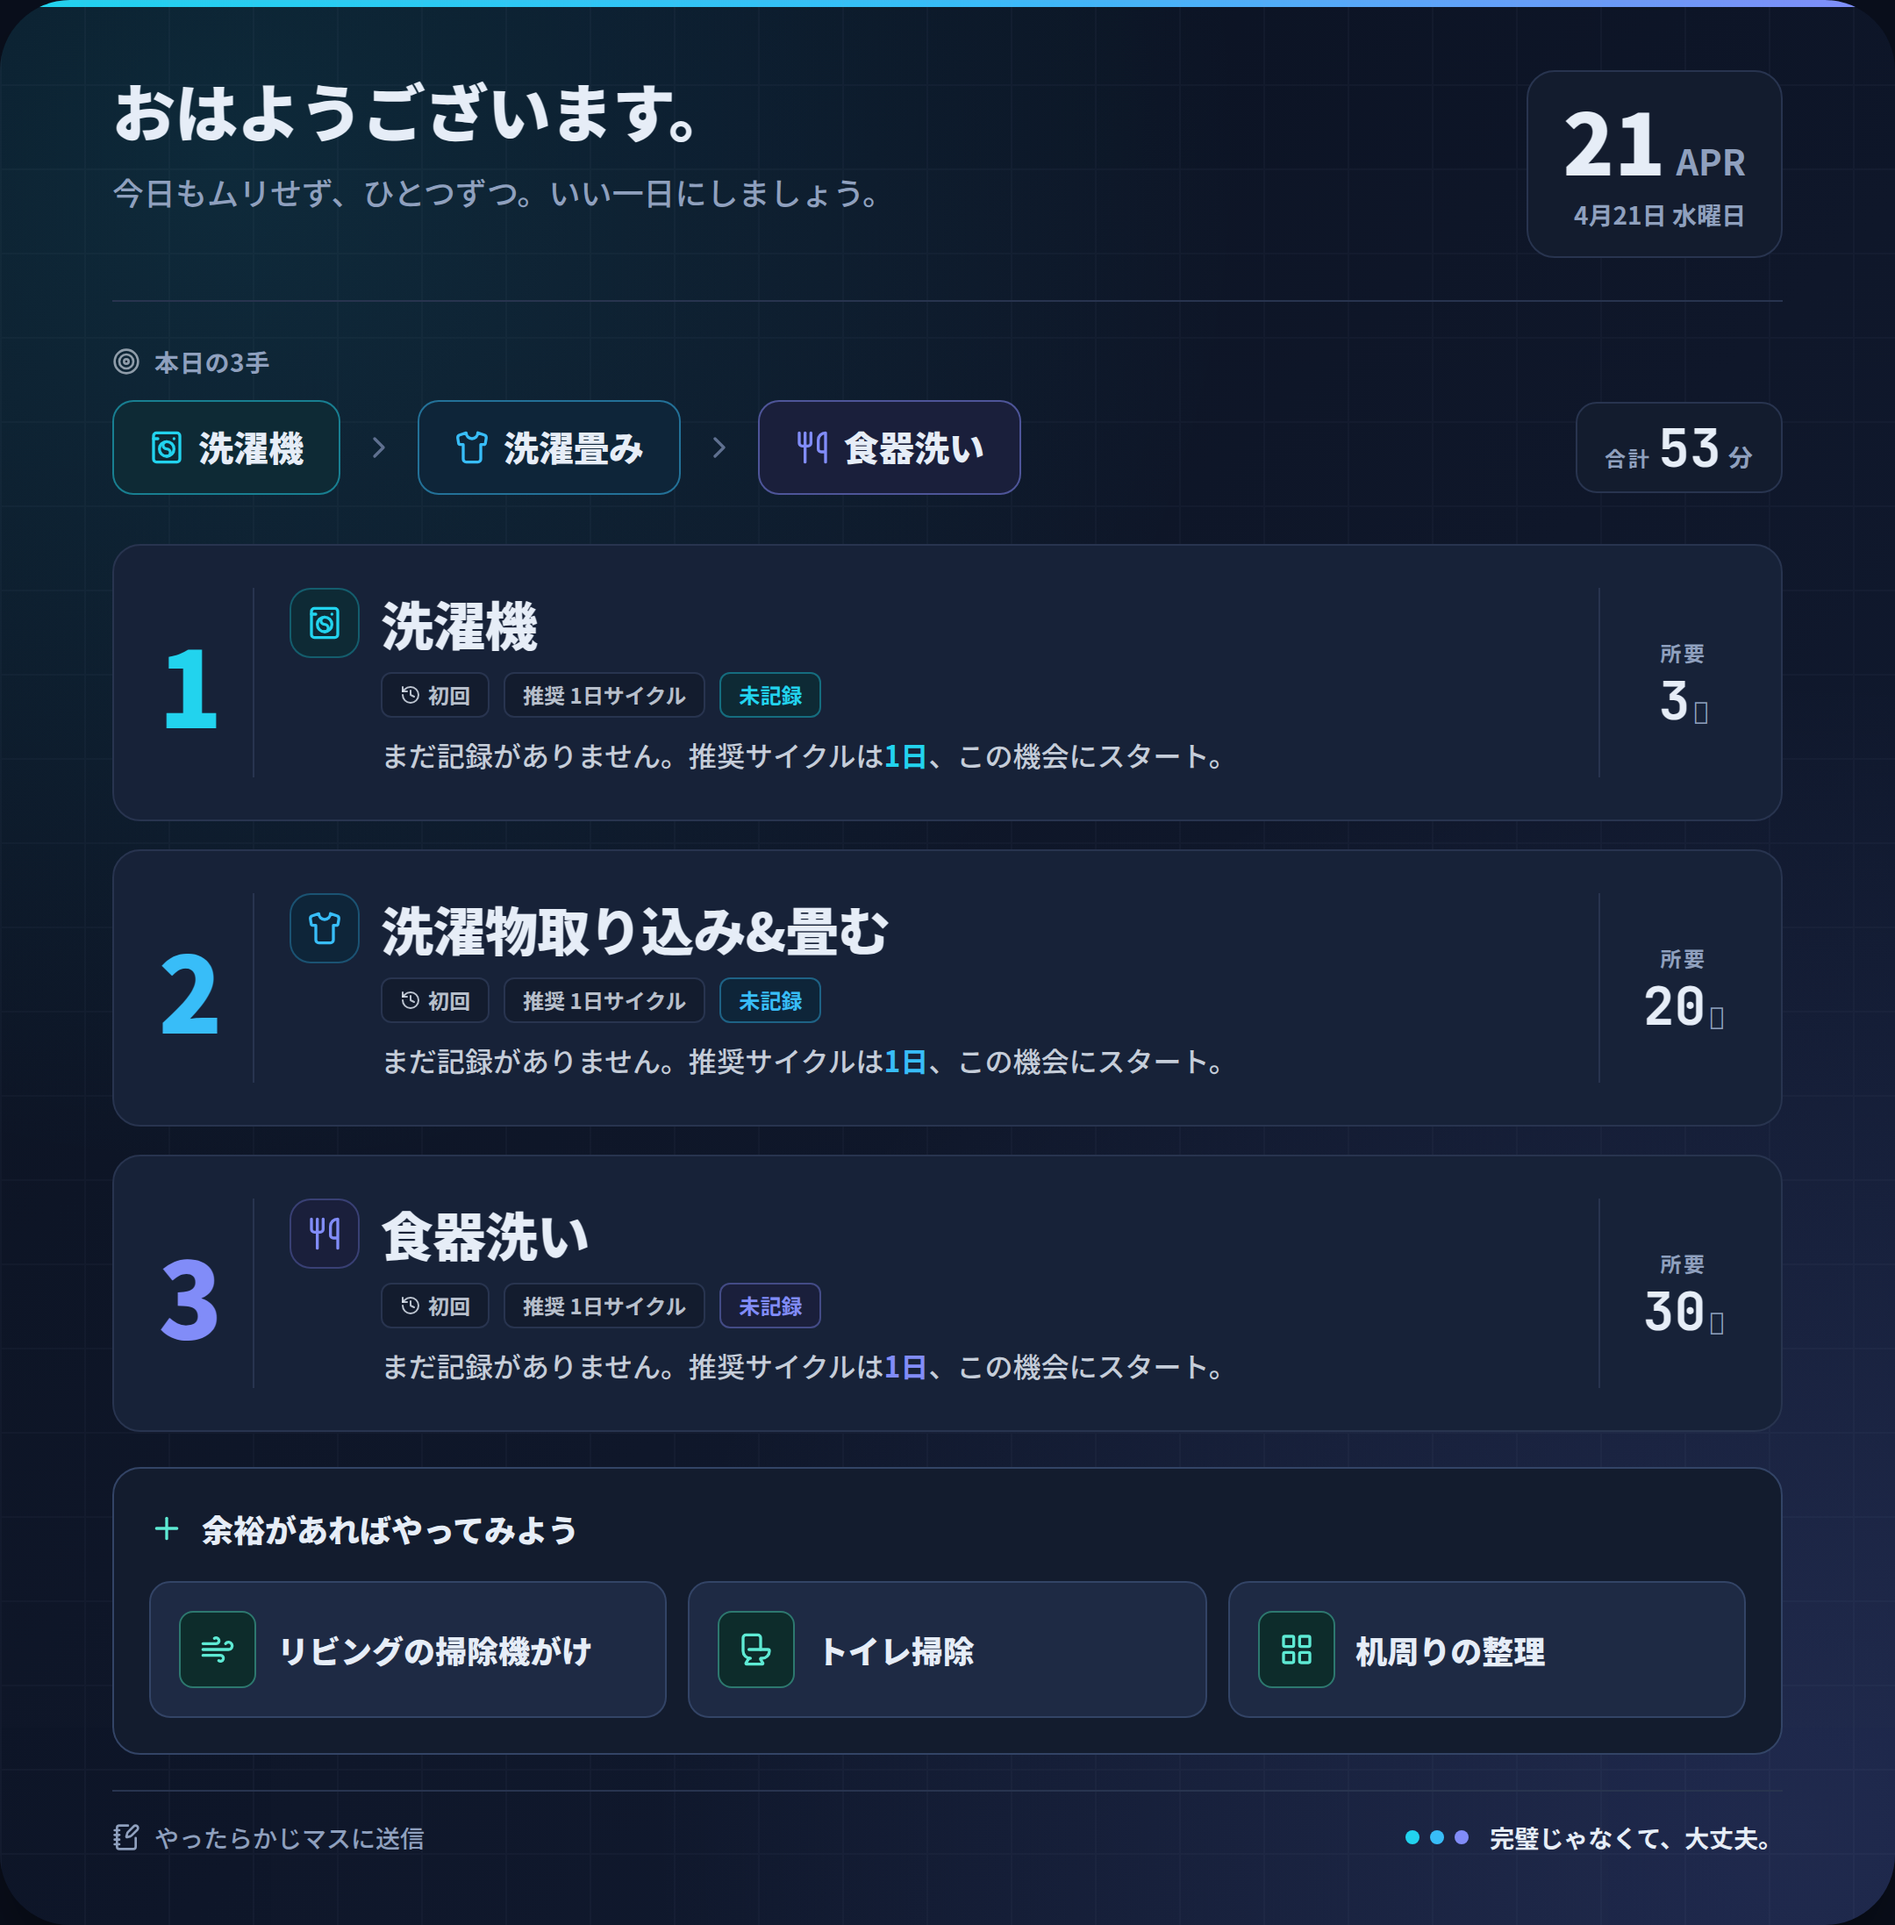
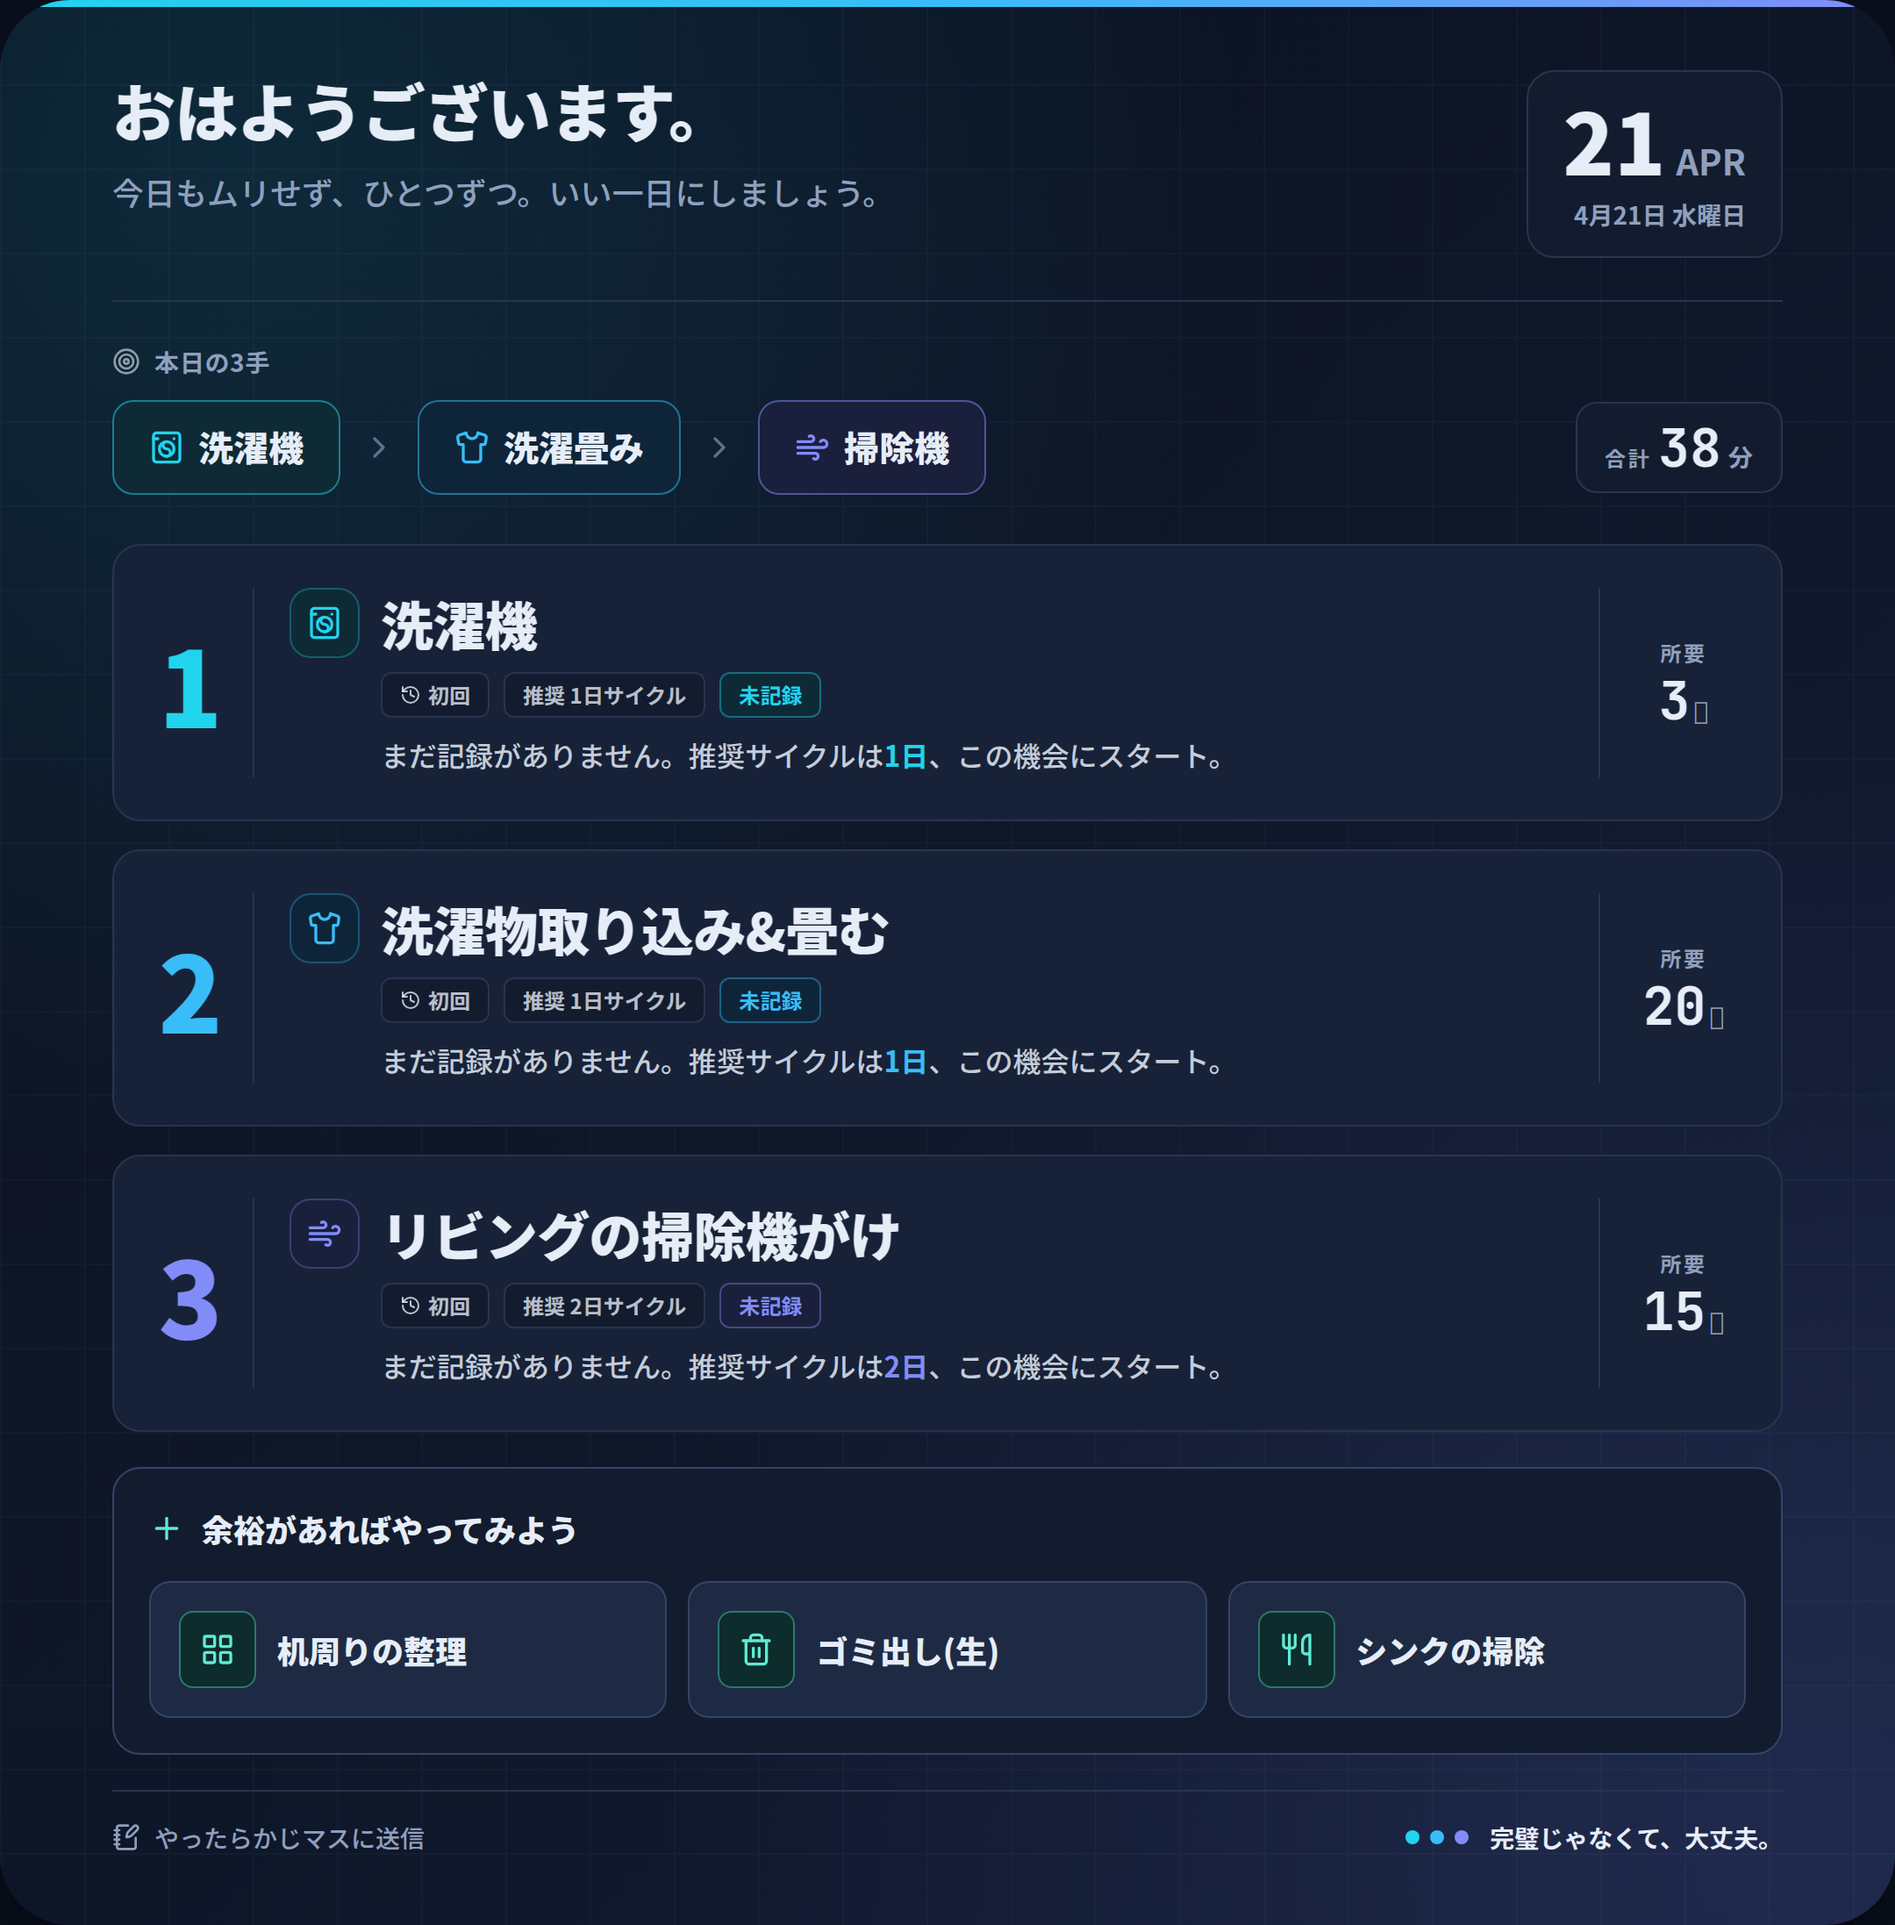
chore: dashboard 2026-04-22T11:13Z

diff --git a/output/latest.html b/output/latest.html
@@ -84,12 +84,12 @@
               </span>
               <i aria-hidden="true" data-lucide="chevron-right" class="w-5 h-5 text-dim flex-shrink-0"></i>
               <span class="inline-flex items-center gap-2 px-5 py-3 rounded-xl bg-indibg border border-indi1/50">
-                <i aria-hidden="true" data-lucide="utensils" class="w-5 h-5 text-indi1"></i>
-                <span class="text-xl font-black text-ink">食器洗い</span>
+                <i aria-hidden="true" data-lucide="wind" class="w-5 h-5 text-indi1"></i>
+                <span class="text-xl font-black text-ink">掃除機</span>
               </span>
             <span class="ml-auto inline-flex items-baseline gap-1 px-4 py-2.5 rounded-xl bg-plate border border-line">
               <span class="text-xs font-bold text-muted tracking-widest">合計</span>
-              <span class="font-mono text-3xl font-black text-ink leading-none">53</span>
+              <span class="font-mono text-3xl font-black text-ink leading-none">38</span>
               <span class="text-sm font-bold text-muted">分</span>
             </span>
           </div>
@@ -162,26 +162,26 @@
             <div class="flex-1 min-w-0">
               <div class="flex items-center gap-3 mb-2">
                 <div class="w-10 h-10 rounded-xl bg-indibg border border-indi1/30 flex items-center justify-center">
-                  <i aria-hidden="true" data-lucide="utensils" class="w-5 h-5 text-indi1"></i>
+                  <i aria-hidden="true" data-lucide="wind" class="w-5 h-5 text-indi1"></i>
                 </div>
-                <h3 class="text-3xl font-black text-ink tracking-tightish">食器洗い</h3>
+                <h3 class="text-3xl font-black text-ink tracking-tightish">リビングの掃除機がけ</h3>
               </div>
               <div class="flex items-center gap-2 mb-2 pl-[3.25rem]">
                 <span class="inline-flex items-center gap-1 px-2.5 py-1 rounded-md bg-plate border border-line text-xs font-bold text-ink/80">
                   <i aria-hidden="true" data-lucide="history" class="w-3 h-3"></i> 初回
                 </span>
                 <span class="inline-flex items-center gap-1 px-2.5 py-1 rounded-md bg-plate border border-line text-xs font-bold text-ink/80">
-                  推奨 1日サイクル
+                  推奨 2日サイクル
                 </span>
                 <span class="inline-flex items-center gap-1 px-2.5 py-1 rounded-md bg-indibg border border-indi1/40 text-xs font-bold text-indi1">
                   未記録
                 </span>
               </div>
-              <p class="text-base font-medium text-ink/85 leading-relaxed pl-[3.25rem]">まだ記録がありません。推奨サイクルは<span class="font-bold text-indi1">1日</span>、この機会にスタート。</p>
+              <p class="text-base font-medium text-ink/85 leading-relaxed pl-[3.25rem]">まだ記録がありません。推奨サイクルは<span class="font-bold text-indi1">2日</span>、この機会にスタート。</p>
             </div>
             <div class="flex-shrink-0 w-20 flex flex-col items-center justify-center gap-1 border-l border-line pl-4">
               <span class="text-xs font-bold text-muted tracking-widest">所要</span>
-              <span class="font-mono text-3xl font-black text-ink leading-none">30<span class="text-sm font-bold text-muted ml-0.5">分</span></span>
+              <span class="font-mono text-3xl font-black text-ink leading-none">15<span class="text-sm font-bold text-muted ml-0.5">分</span></span>
             </div>
           </article>
         </section>
@@ -196,21 +196,21 @@
             <div class="grid grid-cols-3 gap-3">
               <div class="flex items-center gap-3 p-4 rounded-xl bg-card2 border border-line2">
                 <div class="flex-shrink-0 w-11 h-11 rounded-lg bg-tealbg border border-teal1/40 flex items-center justify-center">
-                  <i aria-hidden="true" data-lucide="wind" class="w-5 h-5 text-teal1"></i>
-                </div>
-                <span class="text-lg font-black text-ink leading-snug">リビングの掃除機がけ</span>
-              </div>
-              <div class="flex items-center gap-3 p-4 rounded-xl bg-card2 border border-line2">
-                <div class="flex-shrink-0 w-11 h-11 rounded-lg bg-tealbg border border-teal1/40 flex items-center justify-center">
-                  <i aria-hidden="true" data-lucide="toilet" class="w-5 h-5 text-teal1"></i>
-                </div>
-                <span class="text-lg font-black text-ink leading-snug">トイレ掃除</span>
-              </div>
-              <div class="flex items-center gap-3 p-4 rounded-xl bg-card2 border border-line2">
-                <div class="flex-shrink-0 w-11 h-11 rounded-lg bg-tealbg border border-teal1/40 flex items-center justify-center">
                   <i aria-hidden="true" data-lucide="layout-grid" class="w-5 h-5 text-teal1"></i>
                 </div>
                 <span class="text-lg font-black text-ink leading-snug">机周りの整理</span>
+              </div>
+              <div class="flex items-center gap-3 p-4 rounded-xl bg-card2 border border-line2">
+                <div class="flex-shrink-0 w-11 h-11 rounded-lg bg-tealbg border border-teal1/40 flex items-center justify-center">
+                  <i aria-hidden="true" data-lucide="trash-2" class="w-5 h-5 text-teal1"></i>
+                </div>
+                <span class="text-lg font-black text-ink leading-snug">ゴミ出し(生)</span>
+              </div>
+              <div class="flex items-center gap-3 p-4 rounded-xl bg-card2 border border-line2">
+                <div class="flex-shrink-0 w-11 h-11 rounded-lg bg-tealbg border border-teal1/40 flex items-center justify-center">
+                  <i aria-hidden="true" data-lucide="utensils" class="w-5 h-5 text-teal1"></i>
+                </div>
+                <span class="text-lg font-black text-ink leading-snug">シンクの掃除</span>
               </div>
             </div>
           </div>
